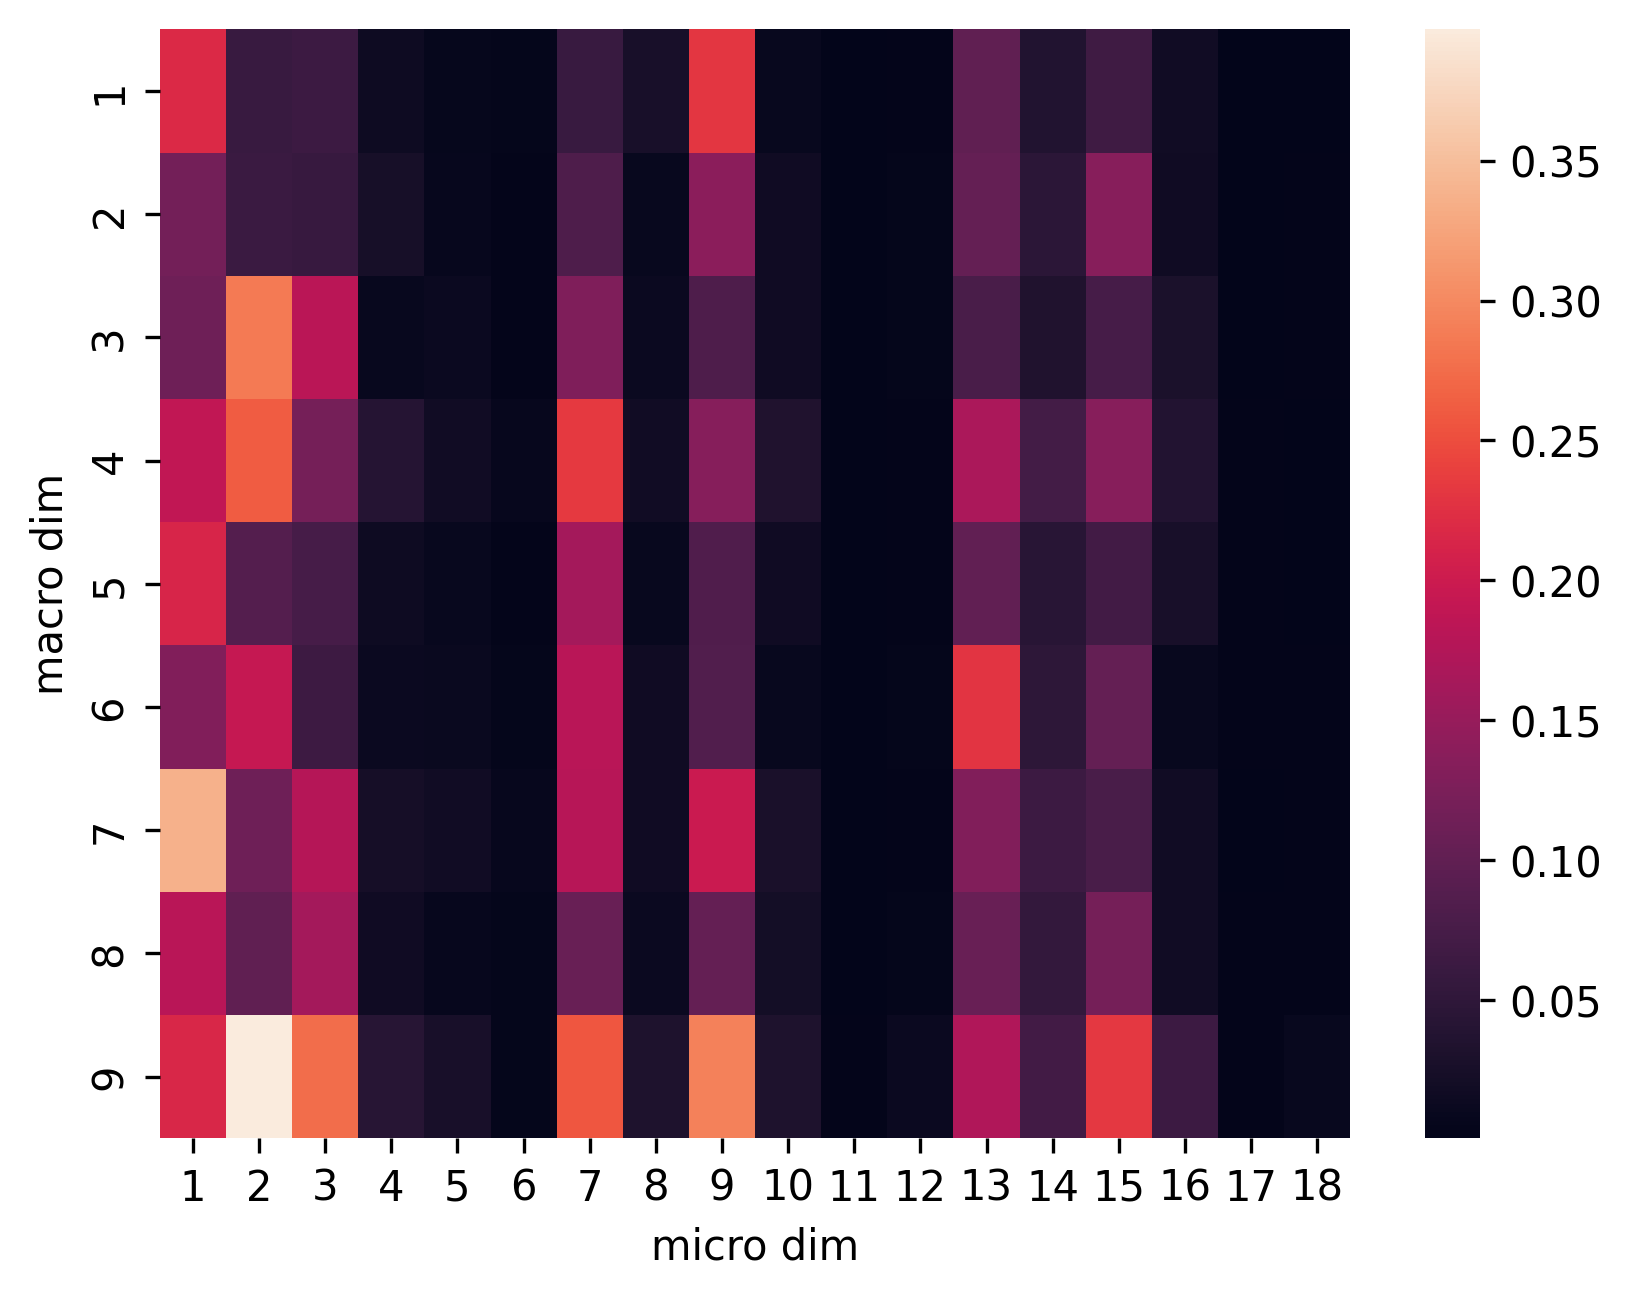
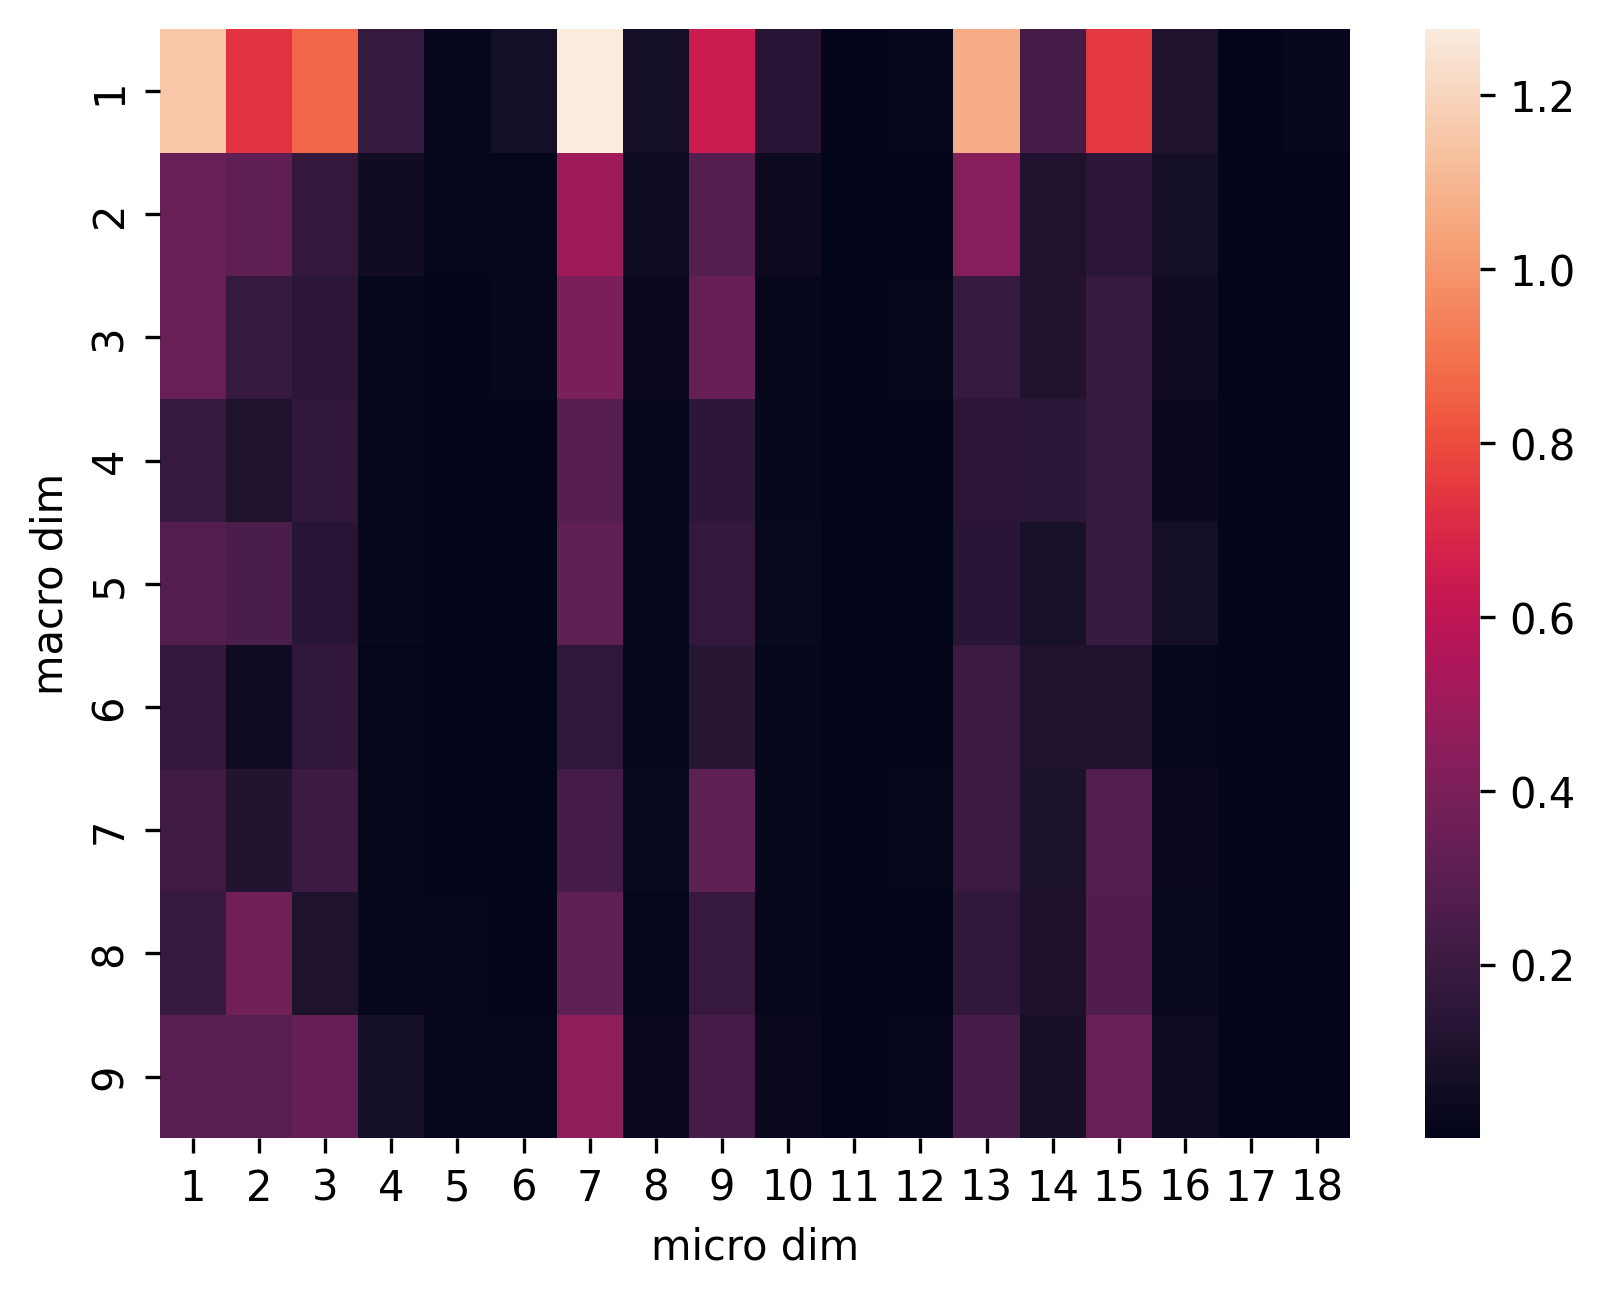
change mse for cov

diff --git a/exp/exp_long_term_forecasting.py b/exp/exp_long_term_forecasting.py
@@ -220,13 +220,13 @@ class Exp_Long_Term_Forecast(Exp_Basic):
         mse_per_dimension = np.mean((true - pred)**2, axis=0)
         return mse_per_dimension #np.diag(mse_per_dimension)
     
-    def cal_cov(self,batch_x,batch_y):
-        if "Transformer" in self.args.model:
-            mu, attn = self.model.forecast(batch_x)
-        else:
-            mu = self.model.forecast(batch_x)
-        mu = mu.cpu().detach().data.numpy()
-        L_vec = self.MSED(mu, batch_y)
+    def cal_cov(self,outputs,batch_y):
+        # if "Transformer" in self.args.model:
+        #     mu, attn = self.model.forecast(batch_x)
+        # else:
+        #     mu = self.model.forecast(batch_x)
+        # mu = mu.cpu().detach().data.numpy()
+        L_vec = self.MSED(outputs, batch_y)
         return L_vec
 
     def test(self, setting, test=0):
@@ -304,7 +304,7 @@ class Exp_Long_Term_Forecast(Exp_Basic):
             if (i > self.args.jac_init) and (i <= self.args.jac_end):
                 batch_list.append(batch_x)
 
-                L_vec_ls[i - self.args.jac_init - 1,: ] = self.cal_cov(batch_x,batch_y)
+                L_vec_ls[i - self.args.jac_init - 1,: ] = self.cal_cov(outputs,batch_y)
 
                 #输出的间隔
                 if (i-self.args.jac_init) % self.args.jac_interval == 0:

diff --git a/models/NN.py b/models/NN.py
@@ -45,11 +45,6 @@ class Model(nn.Module):
         return count, avg_log_jacobian
 
     def forecast(self, x_enc):
-        # Normalization from Non-stationary Transformer
-        # means = x_enc.mean(1, keepdim=True).detach()
-        # x_enc = x_enc - means
-        # stdev = torch.sqrt(torch.var(x_enc, dim=1, keepdim=True, unbiased=False) + 1e-5)
-        # x_enc = x_enc / stdev
         if self.task_name == "long_term_forecast":
             B, T, N = x_enc.shape
             enc_0 = self.enc_embedding(x_enc)
@@ -67,10 +62,8 @@ class Model(nn.Module):
             dec_out = dec_out.reshape(B, self.pred_len, N) + x_enc
         else:
             dec_out = dec_out 
-        # De-Normalization from Non-stationary Transformer
-        # dec_out = dec_out * (stdev[:, 0, :].unsqueeze(1).repeat(1, self.pred_len, 1))
-        # dec_out = dec_out + (means[:, 0, :].unsqueeze(1).repeat(1, self.pred_len, 1))
-        return dec_out  #.reshape(B, self.pred_len, N)
+
+        return dec_out  
 
     def forward(self, x_enc, dec_inp=0, EI_bool=False):
         dec_out = self.forecast(x_enc)

diff --git a/data_provider/data_loader.py b/data_provider/data_loader.py
@@ -458,17 +458,7 @@ class Micro_to_Macro(Dataset):
         loaded_data_dict = np.load(self.path, allow_pickle=True).item()
         self.input = loaded_data_dict['input']
         self.output = loaded_data_dict['output']
-        self.scale = True
-
-    # def __read_data__(self):
-    #     self.scaler = StandardScaler()
-
-    #     if self.scale:
-    #         train_data = df_data[border1s[0]:border2s[0]]
-    #         self.scaler.fit(train_data.values)
-    #         data = self.scaler.transform(df_data.values)
-    #     else:
-    #         data = df_data.values
+        self.scale = False
 
     def __len__(self):
         return len(self.input)

diff --git a/exp/exp_coarse_graining.py b/exp/exp_coarse_graining.py
@@ -270,6 +270,6 @@ class Exp_Coarse_Graining(Exp_Basic):
             plt.ylabel('macro dim')
             plt.xlabel('micro dim')
             plt.savefig(full_path, bbox_inches='tight', dpi=300)
-            plt.show()
+            plt.close()
             
         return
